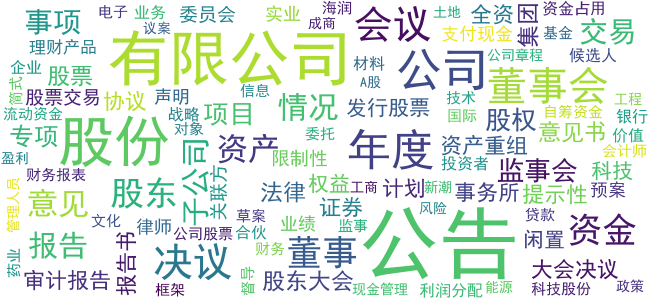
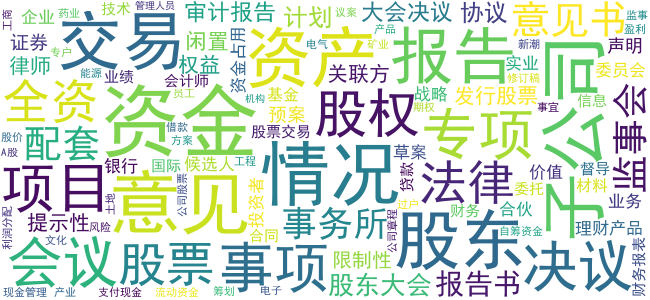
添加部分停用词,增加定时任务：每天晚上2点计算概率

diff --git a/app/api/probability.py b/app/api/probability.py
@@ -10,8 +10,8 @@ from decimal import Decimal
 
 service_name = 'test'
 bp = Blueprint(service_name, __name__, url_prefix="/api/" + service_name)
-#
-#
+
+
 @route(bp, '/', methods=["GET"])
 def pro():
     path = os.path.join(os.path.dirname(__file__), 'static')
@@ -19,11 +19,6 @@ def pro():
     jieba.load_userdict(userdict)
     analyse.set_stop_words(os.path.join(path, 'StopWords.txt'))
     tagpath = os.path.join(path, "TexTrankTags.txt")
-    # tagpath = os.path.join(path, "Tag.txt")
-    # tags = set()
-    # with open(tagpath, 'r') as f:
-    #     for i in f.readlines():
-    #         tags.add(i.strip().decode('utf-8'))
     tag_dict = {}
     with open(tagpath, 'r') as f:
         for i in f.readlines():
@@ -40,19 +35,14 @@ def pro():
                                                        Sh_A_Share.stockcode == code
                                                        ).all()
         data = ''
-        for i in qs:
-            data = data + i.title + '\n'
-        tag_1 = jieba.analyse.textrank(data, topK=100, withWeight=False, allowPOS=('n', 'g', 'an'))
+        for j in qs:
+            data = data + j.title + '\n'
+        tag_1 = jieba.analyse.textrank(data, topK=100, withWeight=False, allowPOS=('n', 'g', 'a', 'ad', 'an'))
         sum_ = Decimal(0)
         for tag in set(tag_1) & set(tag_dict.keys()):
             sum_ += tag_dict[tag]
         probability = (sum_ / sum(tag_dict.values())).quantize(Decimal('0.0000'))
         probability = float(probability * 100)
-        # tag_1 = jieba.analyse.extract_tags(data, topK=20, withWeight=False, allowPOS=('n', 'g', 'an'))
-        # tag_2 = jieba.analyse.textrank(data, topK=20, withWeight=False, allowPOS=('n', 'g', 'an'))
-        # tag = set(tag_1) | set(tag_2)
-        # probability = (Decimal(len(tag & tags)) / Decimal(len(tags))).quantize(Decimal('0.0000'))
-        # probability = float(probability * 100)
         mappings.append({"stockcode": code, "probability": probability})
 
     try:
@@ -60,3 +50,5 @@ def pro():
         db.session.commit()
     except Exception as e:
         print(e)
+
+    return "done"

diff --git a/app/api/bulletin.py b/app/api/bulletin.py
@@ -46,7 +46,7 @@ def get_major():
 
 @route(bp, '/warning/probability', methods=["GET"])
 def warning():
-    result = {"pro": 0.0,"url":""}
+    result = {"pro": 0.0, "url": ""}
     code = request.args.get("keyword", '600000')
     date = datetime.strftime(datetime.now() - timedelta(days=180), "%Y-%m-%d")
     qs = db.session.query(Sh_A_Share.title).filter(Sh_A_Share.bulletindate >= date,
@@ -57,7 +57,7 @@ def warning():
     if data:
         jieba.load_userdict(os.path.join(os.path.join(os.path.dirname(__file__), 'static'), 'CompanyName.txt'))
         analyse.set_stop_words(os.path.join(os.path.join(os.path.dirname(__file__), 'static'), 'StopWords.txt'))
-        cut_keyword = jieba.analyse.textrank(data, topK=100, withWeight=True, allowPOS=('n', 'g', 'an'))
+        cut_keyword = jieba.analyse.textrank(data, topK=100, withWeight=True, allowPOS=('n', 'g', 'a', 'ad', 'an'))
         keywords = dict()
         for key in cut_keyword:
             keywords[key[0]] = key[1]
@@ -85,7 +85,9 @@ def calculate_probability(keywords):
     probability = (sum_ / Decimal(sum(tags_dict.values()))).quantize(Decimal('0.0000'))
     return float(probability * 100)
 
-r= lambda: random.randint(0,255)
+
+r = lambda: random.randint(0, 255)
+
 
 def cloud(code, keywords):
     """
@@ -112,11 +114,9 @@ def cloud(code, keywords):
     title = u"关键字词云对比"
     tag_title = u"历史关键字词云"
     code_title = u"{}关键字词云".format(code)
-    # draw.line(xy=[(95, 0), (95, 700)], width=1, fill=(0, 0, 0))
     draw.line(xy=[(680, 45), (680, 700)], width=1, fill=(0, 0, 0))
     draw.line(xy=[(0, 45), (1400, 45)], width=1, fill=(0, 0, 0))
     draw.line(xy=[(0, 95), (1400, 95)], width=1, fill=(0, 0, 0))
-    # draw.line(xy=[(0, 350), (1400, 350)], width=1, fill=(0, 0, 0))
     draw.text(xy=(500, 5), text=title, font=font, fill=(r(), r(), r()))
     draw.text(xy=(200, 55), text=tag_title, font=font, fill=(r(), r(), r()))
     draw.text(xy=(900, 55), text=code_title, font=font, fill=(r(), r(), r()))

diff --git a/app/api/__init__.py b/app/api/__init__.py
@@ -3,6 +3,10 @@
 author:qinzhiqiang
 date:2017/12/15
 """
+import atexit
+import logging
+import urllib2
+from apscheduler.schedulers.background import BackgroundScheduler
 from flask import Flask
 from ..config import config
 from ..core import db, register_blueprints
@@ -15,3 +19,30 @@ def create_app(config_name='default'):
     db.init_app(app)
     register_blueprints(app, __name__, __path__)
     return app
+
+
+scheduler = BackgroundScheduler()
+
+scheduler.start()
+atexit.register(lambda: scheduler.shutdown())
+
+log = logging.getLogger('apscheduler.executors.default')
+log.setLevel(logging.INFO)
+fmt = logging.Formatter('%(levelname)s:%(name)s:%(message)s')
+h = logging.StreamHandler()
+h.setFormatter(fmt)
+log.addHandler(h)
+
+
+def try_build_probability():
+    url = "http://127.0.0.1:81/api/test/"
+    res = urllib2.urlopen(url)
+
+
+scheduler.add_job(
+    func=try_build_probability,
+    trigger='cron',
+    hour=2,
+    id='build_time_alert',
+    name='build_time_alert',
+    replace_existing=True)
